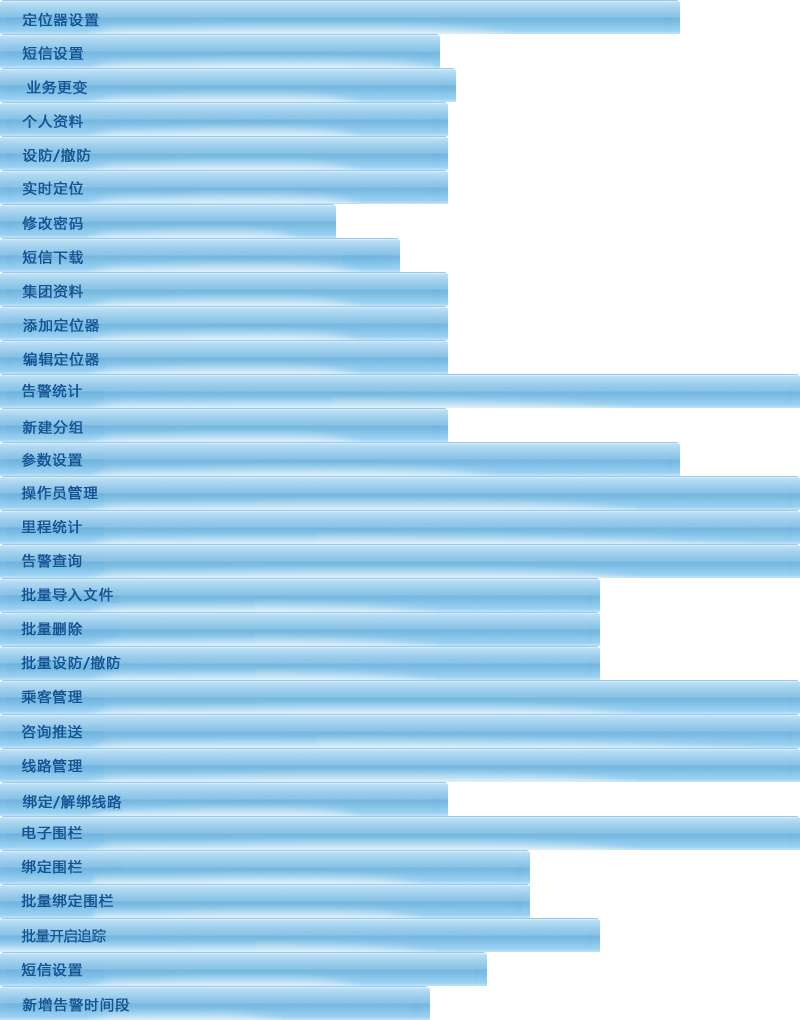
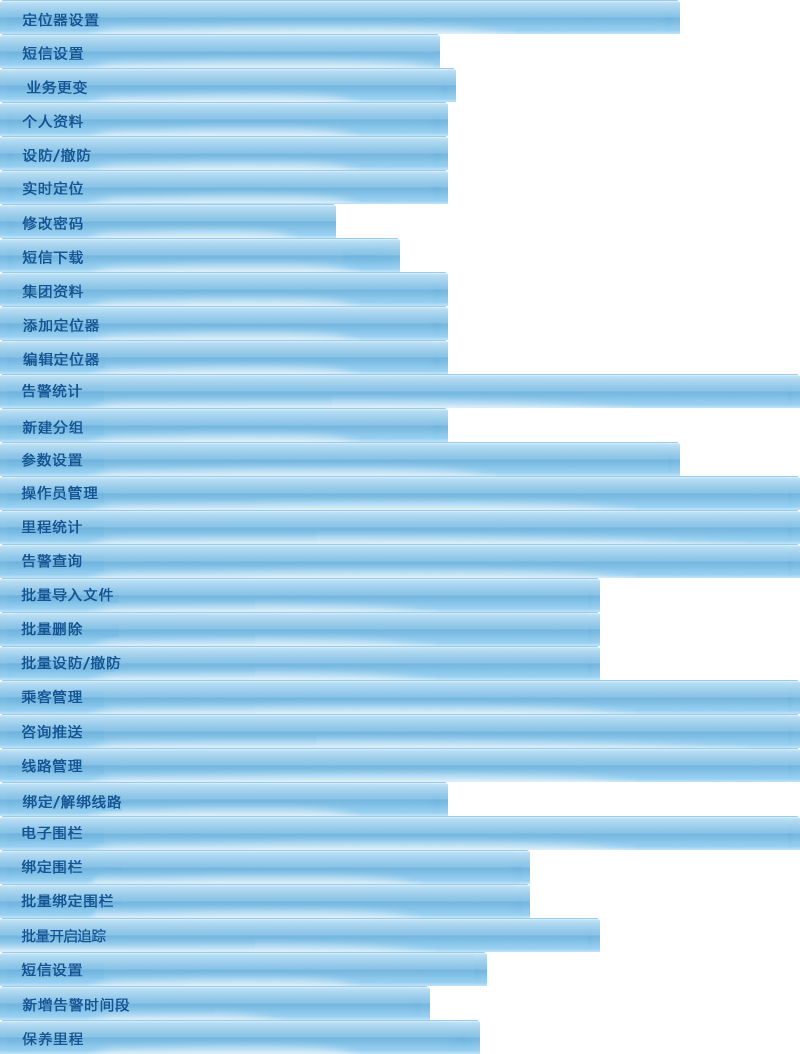
git-svn-id: http://www.ichebao.net/svn/acb/trunk@1920 fbfde4e3-4bc3-4d81-a63b-7b332075e0cf

diff --git a/apps/uweb/static/js/initialize_common.js b/apps/uweb/static/js/initialize_common.js
@@ -1586,7 +1586,7 @@ dlf.fn_dialogPosition = function ( str_wrapperId ) {
 		dlf.fn_setMapContainerZIndex(0);	// 除告警外的其余操作都设置地图zIndex：0
 	}
 	if ( b_trackStatus || b_bindRegionStatus || b_bindBatchRegionStatus || b_regionStatus || b_corpRegionStatus || b_eventStatus || b_routeLineStatus || b_createRegionStatus ) {	// 如果轨迹、绑定围栏、围栏管理、告警查询、线路管理打开 要重启lastinfo	
-		if ( str_wrapperId == 'realtime' || str_wrapperId == 'bindLine' || str_wrapperId == 'corpTerminal' || str_wrapperId == 'defend' || str_wrapperId == 'mileage' || str_wrapperId == 'singleMileage' || str_wrapperId == 'cTerminal' || str_wrapperId == 'fileUpload' || str_wrapperId == 'batchDelete' || str_wrapperId == 'batchDefend' || str_wrapperId == 'batchTrack' || str_wrapperId == 'smsOption' || str_wrapperId == 'terminal' || str_wrapperId == 'corpSMSOption' || str_wrapperId == 'operator' || str_wrapperId == 'onlineStatics' || str_wrapperId == 'personal' || str_wrapperId == 'pwd'|| str_wrapperId == 'corp' || str_wrapperId == 'notifyManageSearch' || str_wrapperId == 'notifyManageAdd' ) {
+		if ( str_wrapperId == 'realtime' || str_wrapperId == 'bindLine' || str_wrapperId == 'corpTerminal' || str_wrapperId == 'defend' || str_wrapperId == 'mileage' || str_wrapperId == 'singleMileage' || str_wrapperId == 'cTerminal' || str_wrapperId == 'fileUpload' || str_wrapperId == 'batchDelete' || str_wrapperId == 'batchDefend' || str_wrapperId == 'batchTrack' || str_wrapperId == 'smsOption' || str_wrapperId == 'terminal' || str_wrapperId == 'corpSMSOption' || str_wrapperId == 'operator' || str_wrapperId == 'onlineStatics' || str_wrapperId == 'personal' || str_wrapperId == 'pwd'|| str_wrapperId == 'corp' || str_wrapperId == 'notifyManageSearch' || str_wrapperId == 'notifyManageAdd' || str_wrapperId == 'mileageNotification' ) {
 			dlf.fn_closeTrackWindow(true);	// 关闭轨迹查询,操作lastinfo
 		} else if ( str_wrapperId == 'bindBatchRegion' || str_wrapperId == 'corpRegion' || str_wrapperId == 'eventSearch' || str_wrapperId == 'region' || str_wrapperId == 'routeLine' ) {
 			dlf.fn_closeTrackWindow(false);	// 关闭轨迹查询,不操作lastinfo
@@ -2070,6 +2070,18 @@ window.dlf.fn_jsonPut = function(url, obj_data, str_who, str_msg, str_tid) {
 					dlf.fn_changeTableBackgroundColor();	// 数据行背景色改变
 					$('#addPassengerDialog').dialog('close');	// 关闭dialog
 					dlf.fn_jNotifyMessage(data.message, 'message', false, 3000);
+				} else if ( str_who == 'mileageNotification' ) {
+					for ( var param in obj_data ) {
+						var str_val = obj_data[param];
+						
+						if ( param == 'assist_mobile' ) {
+							$('#txtAssistMobile').data('t_val', str_val);
+						} else if ( param == 'distance_notification' ) {
+							$('#txtDistanceNotification').data('t_val', str_val);
+						}
+					}
+					dlf.fn_jNotifyMessage(data.message, 'message', false, 3000);
+					dlf.fn_closeDialog(); // 窗口关闭 去除遮罩
 				} else {
 					if ( str_who == 'corpTerminal' ) {
 						dlf.fn_clearNavStatus('corpTerminal');
@@ -2307,19 +2319,17 @@ window.dlf.resetPanelDisplay = function(n_type) {
 			b_corpLeftSt = $('#corpLeft').is(':hidden');	
 		
 		if ( n_bodyHeight > n_windowHeight ){
+			n_topWidth = n_topWidth - 17;
 			if ( n_tempWindowWidth > 1024 ) {
 				n_tempWindowHeight = n_windowHeight +17;
 			}
 		}
-		
 		if ( n_topWidth > n_tempWindowWidth ){
 			if ( n_windowHeight > 624 ) {
 				n_tempWindowWidth += 17;
 			}
 		}
-		//todo
 		n_windowHeight = n_tempWindowHeight;
-		//todoend
 		if ( n_windowHeight <= 624 ) {
 			n_windowHeight = 624;
 		}
@@ -2363,10 +2373,11 @@ window.dlf.resetPanelDisplay = function(n_type) {
 
 		if ( $.browser.msie ) { // 根据浏览器不同调整页面部分元素大小 
 			n_right = n_windowWidth - 259;
-			n_tempContent = n_mapHeight = n_mapHeight - 10;
+			n_tempContent = n_mapHeight - 10;
 		}
 		if ( b_topPanelSt ) {
-			n_mapHeight = n_windowHeight - 38;
+			n_tempContent = n_mapHeight = n_windowHeight - 38;
+			n_mainHeight = n_windowHeight;			
 			n_defTop = 37;
 		}
 		if ( b_pLeftSt || b_corpLeftSt ) {	// 左侧如果隐藏了的话，main、right、map宽高相同

diff --git a/apps/uweb/static/js/corp_terminal.js b/apps/uweb/static/js/corp_terminal.js
@@ -479,6 +479,72 @@ window.dlf.fn_resizeWhitePop = function() {
 		obj_whitePop.css({left: n_left, top: n_top});
 	}
 }
+
+
+/**
+* KJJ add in 2014.05.15
+* 里程保养
+*/
+window.dlf.fn_initMileageNotification = function(str_tid) {
+	dlf.fn_dialogPosition('mileageNotification');  // 显示短信设置dialog	
+	dlf.fn_lockScreen(); // 添加页面遮罩
+	$.get_(MILEAGENOTIFICATION_URL + '?tid=' + str_tid, '', function(data) {
+		if ( data.status == 0 ) {
+			var obj_res = data.res,
+				str_ownerMobile = obj_res.owner_mobile,	// 车主号码
+				str_assist_mobile = obj_res.assist_mobile,	// 第二通知号码
+				n_distance_current = Math.round(obj_res.distance_current/1000),	// 当前行车里程
+				n_distance_left = Math.round(obj_res.distance_left/1000), // 距离下次保养里程
+				n_tempDistance = obj_res.distance_notification,
+				n_distance_notification = Math.round(n_tempDistance/1000); // 下次保养里程
+			
+			$('#spanOwnerMobile').html(str_ownerMobile);
+			$('#txtAssistMobile').val(str_assist_mobile).data('t_val', str_assist_mobile);
+			$('#txtDistanceNotification').val(n_distance_notification).data('t_val', n_tempDistance);
+			
+			$('#lblDistanceCurrent').html(n_distance_current);
+			$('#lblDistanceLeft').html(n_distance_left);
+			
+		} else if ( data.status == 201 ) {	// 业务变更
+			dlf.fn_showBusinessTip();
+		} else {
+			dlf.fn_jNotifyMessage(data.message, 'message', false, 5000); // 查询状态不正确,错误提示
+		}
+		dlf.fn_unLockContent(); // 清除内容区域的遮罩
+	});
+}
+
+window.dlf.fn_mileageNotificationSave = function() {
+	var obj_param = {},
+		n_num = 0,
+		str_oldAssistMobile = $('#txtAssistMobile').data('t_val');
+		str_newAssistMobile = $('#txtAssistMobile').val(),
+		n_oldDistance = $('#txtDistanceNotification').data('t_val'),
+		n_newDistance = $('#txtDistanceNotification').val()*1000;
+		
+	if ( str_oldAssistMobile != str_newAssistMobile ) {
+		n_num ++;
+		obj_param.assist_mobile = str_newAssistMobile;
+	}
+	if ( n_oldDistance != n_newDistance ) {
+		n_num ++;
+		obj_param.distance_notification = n_newDistance;		
+	}
+	/**
+	* 只保存有修改的数据
+	*/
+	for(var param in obj_param) {	// 修改项的数目
+		n_num = n_num + 1;
+	}
+	if ( n_num != 0 ) {	// 如果有修改向后台发送数据,否则提示无任何修改
+		obj_param.tid = dlf.fn_getCurrentTid();
+		dlf.fn_jsonPut(MILEAGENOTIFICATION_URL, obj_param, 'mileageNotification', '保养里程保存中');
+	} else {
+		dlf.fn_jNotifyMessage('您未做任何修改。', 'message', false, 4000); // 查询状态不正确,错误提示
+		dlf.fn_unLockContent(); // 清除内容区域的遮罩
+	}
+}
+
 })();
 
 $(function() {
@@ -561,4 +627,22 @@ $(function() {
 		}
 	});
 	
+	/** 
+	* 短息设置的验证
+	*/
+	$.formValidator.initConfig({
+		formID: 'mileageNotificationForm', //指定from的ID 编号
+		debug: true, // 指定调试模式,不提交form
+		validatorGroup: '13', // 指定本form组编码,默认为1, 多个验证组时使用
+		wideWord: false, // 一个汉字当一个字节
+		submitButtonID: 'corp_mileageNotificationSave', // 指定本form的submit按钮
+		onError: function(msg) {
+			dlf.fn_jNotifyMessage(msg, 'message', false, 4000); 
+		}, 
+		onSuccess: function() {
+			dlf.fn_mileageNotificationSave();	// put请求
+		}
+	});
+	$('#txtAssistMobile').formValidator({validatorGroup: '13', empty: true}).inputValidator({max: 11, onError: '第二通知号码最大长度是11位！'}).regexValidator({regExp: 'owner_mobile', dataType: 'enum', onError: '第二通知号码不合法，请重新输入！'});
+	$('#txtDistanceNotification').formValidator({validatorGroup: '13', empty: true}).regexValidator({regExp: 'num1', dataType: 'enum', onError: '保养里程只能是大于0的整数，请重新输入！'});
 })

diff --git a/apps/uweb/static/css/css.css b/apps/uweb/static/css/css.css
@@ -397,9 +397,6 @@ body {
 .selfList a {
 	width: 130px;
 }
-.selfList a:hover {
-	background: url('/static/images/welcomeBg.png');	/* acb-menus.png*/
-}
 
 #otherList {
 	/*background-color: #ffffff;
@@ -643,7 +640,7 @@ body {
 /*main content end*/
 
 /*dialogs wrapper start*/
-#currentMsg, #defendMsg, .bListR .terminalTdL, .personalList label, .pwdList label, .smsTip, .cTerminalList label {
+#currentMsg, #defendMsg, .bListR .terminalTdL, .personalList label, .pwdList label, .smsTip, .cTerminalList label, .wordColor {
 	color: #126393
 }
 .timeout {
@@ -831,6 +828,16 @@ body {
 	background-position: 0 -920px;
 	width: 600px;
 	height: 32px;
+}
+.mileageNotificationTitle {
+	background-position: 0 -1020px;
+	width: 480px;
+}
+.mileageNotificationTitle .close {
+	left: 454px;
+}
+.mileageNotificationContent {
+	width: 480px;
 }
 .wrapperContent {
 	height: 249px;
@@ -1044,6 +1051,20 @@ body {
     margin-right: 20px;
     text-align: right;
     width: 97px;
+}
+#mileageNotificationTable label {
+	width: 125px;
+}
+#txtAssistMobile {
+	width: 247px;
+}
+#txtDistanceNotification {
+	width: 215px;
+}
+#corp_mileageNotificationSave {
+	top: 229px;
+	left: 346px;
+	position: absolute;
 }
 #c_mobile {
 	text-align: left;
@@ -1297,7 +1318,7 @@ body {
 	margin-top: 10px;
 	color: gray;
 }
-.personalButton, #pwdSave, #terminalSave, #smsNoticeSave, #createGroupSave, #corp_terminalSave, #operatorSave, #passengerSave, #infoPushSave, #corp_smsOptionSave, #infoPushDisabledBtn, #notifyManageSave, #notifyManageSureSave {
+.personalButton, #pwdSave, #terminalSave, #smsNoticeSave, #createGroupSave, #corp_terminalSave, #operatorSave, #passengerSave, #infoPushSave, #corp_smsOptionSave, #infoPushDisabledBtn, #notifyManageSave, #notifyManageSureSave, .saveButton {
 	border: 0px;
 	background: url('/static/images/bc.png') no-repeat;
 	width: 92px;
@@ -1797,8 +1818,8 @@ body {
 .dataTable {
 	border: 0px;
 	margin-top: 8px;
-	/*width: 850px;*/
-	width: 680px;
+	/*width: 850px;
+	width: 680px;*/
 	border-collapse: collapse;
 }
 .dataTable tr {
@@ -3093,14 +3114,14 @@ legend {
 	width: 800px;
 }
 .eventSearchContent td, .mileageContent td, .operatorContent td, .onlineStaticsContent td {
-	height: 33px;
+	height: 29px;
 }
 .singleMileageTable td, .singleEventContent td {
 	height: 22px;
 	line-height: 22px;
 }
 .eventSearchContent .dataTable, .singleEventContent .dataTable {
-	width: 760px;	/*770px*/
+	/*width: 790px;	770px*/
 }
 .singleEventContent {
 	padding-top: 10px;

diff --git a/apps/uweb/templates/dialogs.html b/apps/uweb/templates/dialogs.html
@@ -568,6 +568,65 @@
 		</div>
 	</div>
 	
+	<!-- 保养提醒 -->
+	<div id="mileageNotificationWrapper" class="wrapper hide j_drag">
+		<div class="wrapperTitle mileageNotificationTitle">
+			<span class="close j_close" who="corpSMSOption"></span>
+		</div>
+		<div id="mileageNotificationContent" class="mileageNotificationContent wrapperContent">
+			<form id="mileageNotificationForm">
+				<table class="personalList" id="mileageNotificationTable">
+					<tbody>
+						<tr>
+							<td>
+								<label>车主号码：</label>
+							</td>
+							<td id=""  t_val="">
+								<span id="spanOwnerMobile"></label>
+							</td>
+						</tr>
+						<tr>
+							<td>
+								<label>第二通知号码：</label>
+							</td>
+							<td id="td_assist_mobile"  t_val="">
+								<input id="txtAssistMobile" class="text_mouseOut" type="text" />
+							</td>
+						</tr>
+						<tr>
+							<td>
+								<label>下次保养里程：</label>
+							</td>
+							<td id="tddistance_left"  t_val="">
+								<input id="txtDistanceNotification" class="text_mouseOut" type="text" />
+								<span class="wordColor">公里</span>
+							</td>
+						</tr>
+						<tr>
+							<td>
+								<label>当前行车里程：</label>
+							</td>
+							<td>
+								<span id="lblDistanceCurrent"></span>
+								<span>公里</span>
+							</td>
+						</tr>
+						<tr>
+							<td>
+								<label>距离下次保养还有：</label>
+							</td>
+							<td>
+								<span id="lblDistanceLeft"></span>
+								<span>公里</span>
+							</td>
+						</tr>
+					</tbody>
+				</table>
+				<input type="submit" id="corp_mileageNotificationSave" width=100 value="" class="saveButton j_save" />
+			</form>
+		</div>
+	</div>
+	
 	<!-- 操作员管理 -->
 	<div id="operatorWrapper" class="hide wrapper">
 		<!--<div class="wrapperTitle operatorTitle">

diff --git a/apps/uweb/static/js/corp_main.js b/apps/uweb/static/js/corp_main.js
@@ -60,6 +60,7 @@ function customMenu(node) {
 		bindRegionLabel = '', // 绑定围栏
 		batchTrackLabel = '',	// 开启追踪
 		batchCancleTrack = '',	// 取消追踪
+		mileageNotificationLabel = '',	// 里程保养
 		str_bizCode = $('#hidBizCode').val(),	// 当前的业务
 		obj_alarmAndDelay = $('.j_alarm, .j_delay'),
 		b_trackStatus = $('#trackHeader').is(':visible');	// 轨迹是否打开着
@@ -90,6 +91,7 @@ function customMenu(node) {
 		staticsLabel = '里程统计';
 		bindLineLabel = '绑定/解绑线路';
 		bindRegionLabel = '绑定围栏';
+		mileageNotificationLabel = '保养里程';
 	}
 	// 定位器的移动至菜单项
 	
@@ -207,6 +209,13 @@ function customMenu(node) {
 				dlf.fn_initCorpTerminal($(obj).children('a').eq(0).attr('tid'));
 				return false;
 			}
+		},
+		'mileageNotification': {
+			"label" : mileageNotificationLabel,
+			"action" : function (obj) {
+				dlf.fn_initMileageNotification($(obj).children('a').eq(0).attr('tid'));
+				return false;
+			}			
 		},
 		"defend": {	// 单个定位器设防撤防
 			"label" : singleDefendLabel,
@@ -378,6 +387,7 @@ function customMenu(node) {
 		delete items.bindRegion;
 		delete items.region;
 		delete items.batchTrack;
+		delete items.mileageNotification;
    }
    if ( obj_node.hasClass('j_group') ) {
 		delete items.wakeUp;
@@ -394,6 +404,7 @@ function customMenu(node) {
 		delete items.bindLine;
 		delete items.bindRegion;
 		delete items.region;
+		delete items.mileageNotification;
    }
    if ( str_userType == USER_OPERATOR ) {	// 操作员屏蔽右键	
 		delete items.create;

diff --git a/apps/uweb/static/js/definitions.js b/apps/uweb/static/js/definitions.js
@@ -65,6 +65,7 @@ var PWD_CAPCHA_URL = '/getcaptcha';	// 个人用户获取找回密码验证码
 var CORPPWD_CAPCHA_URL = '/getcaptcha/corp';	// 集团用户获取找回密码验证码
 var NOTIFYMANAGE_URL = '/announcement/list'; //通知管理
 var NOTIFYMANAGE_ADD_URL = '/announcement'; //通知新增
+var MILEAGENOTIFICATION_URL = '/mileagenotification';	// 保养提醒
 /*常量*/
 var CHECK_INTERVAL = 10000; // 每N秒
 var CHECK_ROUNDNUM = 3; // 经纬度显示小数位截取
